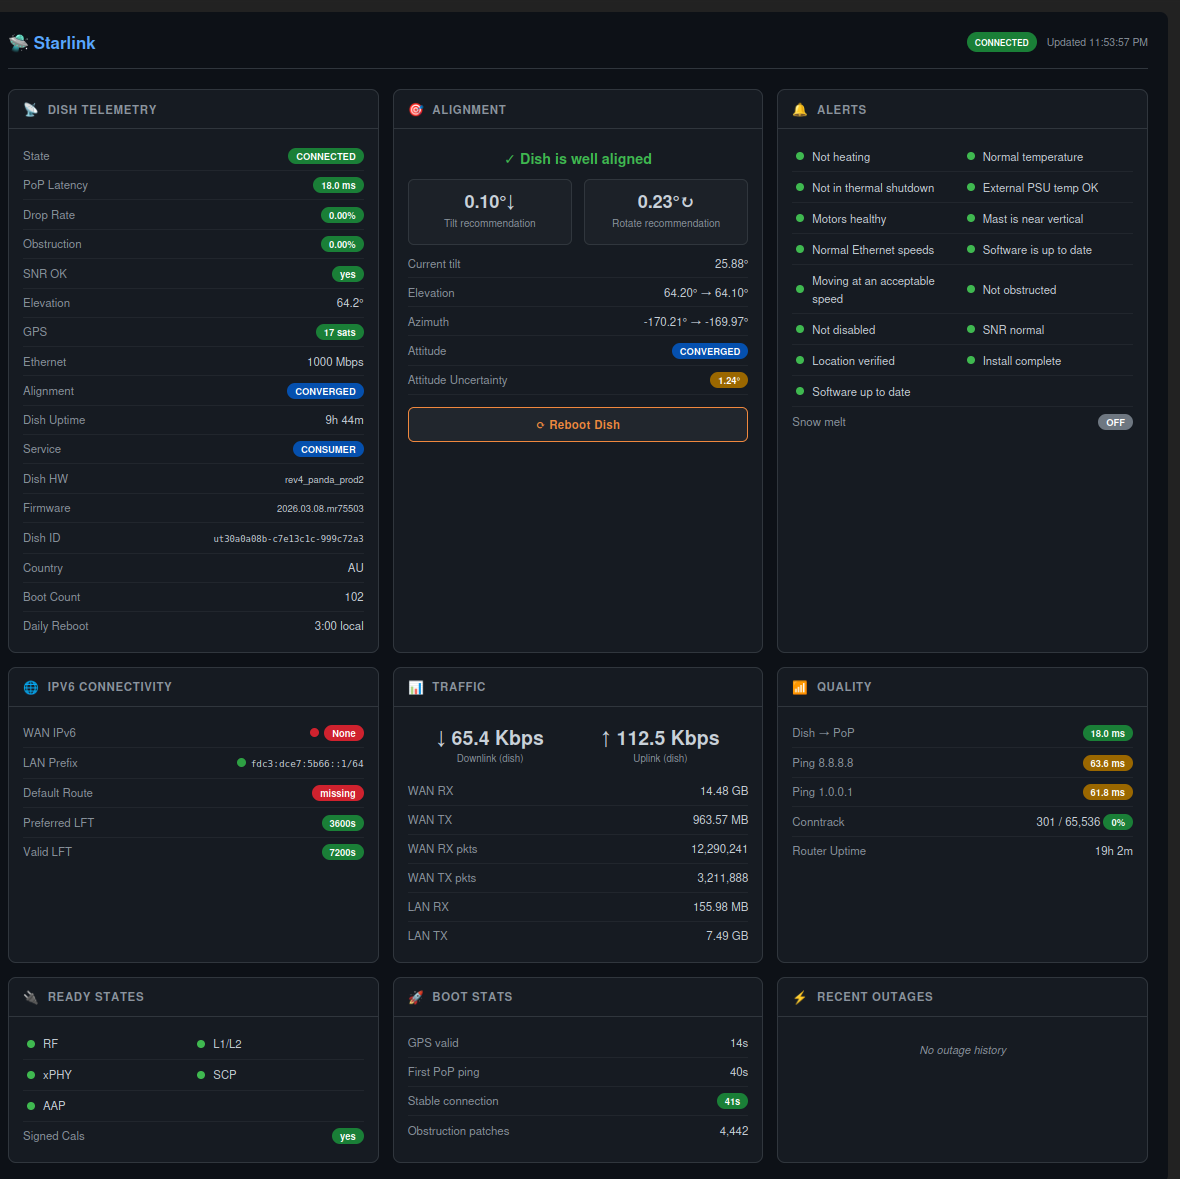
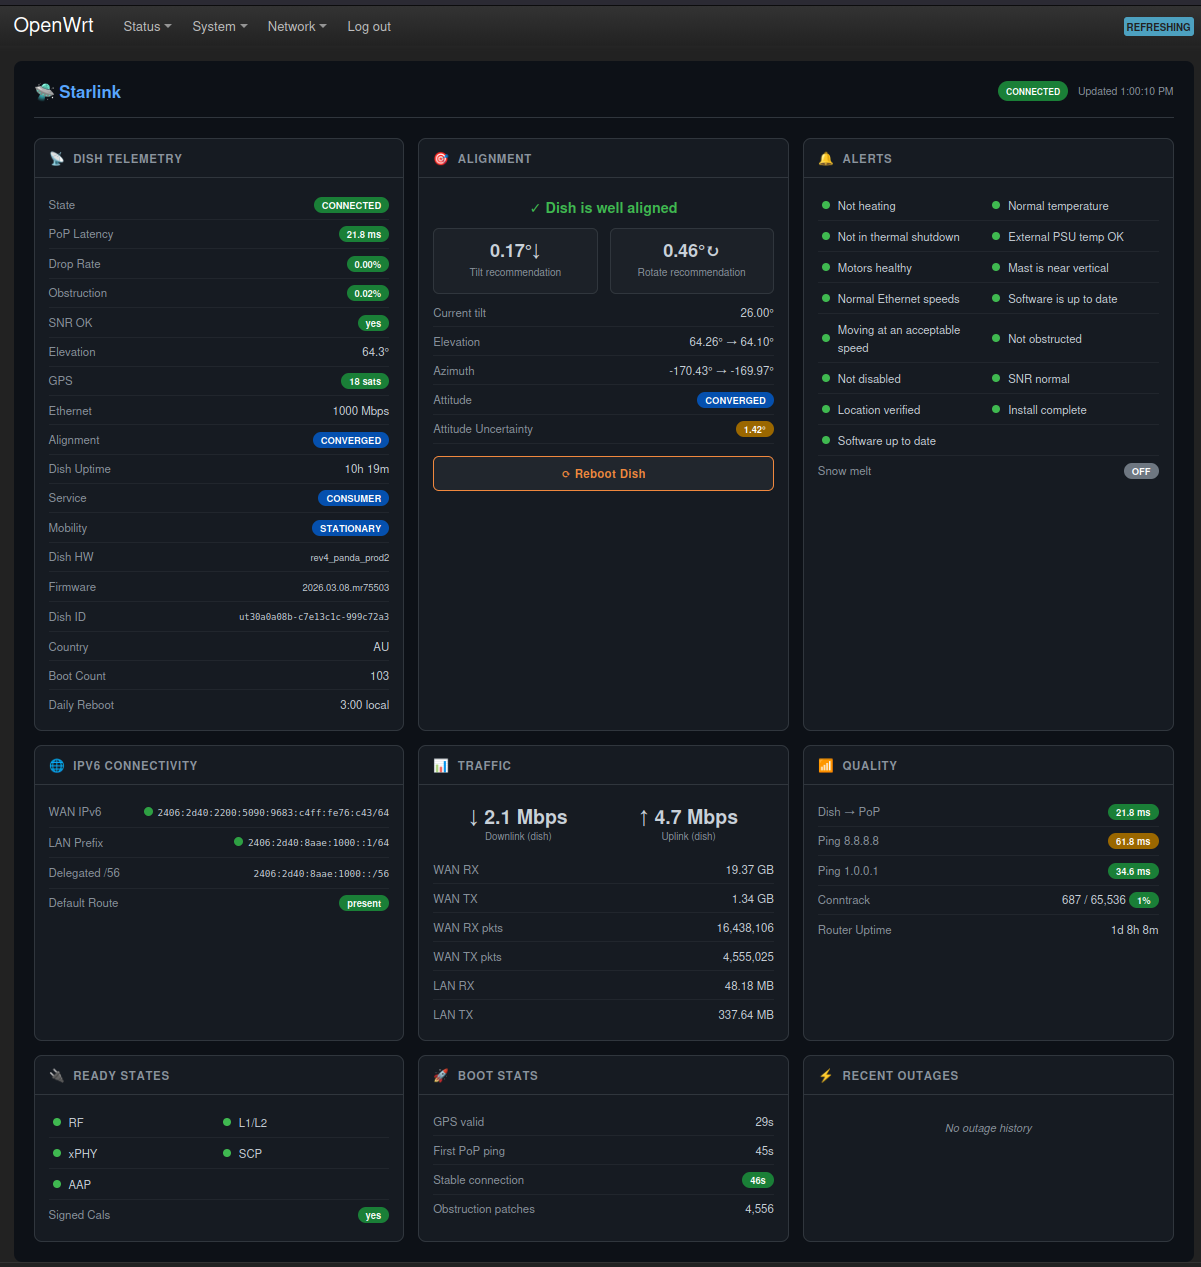
Update README: new screenshot, fix install instructions and feature list

diff --git a/README.md b/README.md
@@ -3,20 +3,21 @@
 LuCI dashboard for Starlink dish telemetry, alignment, alerts, IPv6 connectivity, traffic, and router configuration on OpenWrt 25.x.
 Works with Starlink Gen3 and higher dish.
 
-<img width="1180" height="1179" alt="image" src="https://github.com/user-attachments/assets/562686b3-83c6-411f-85a1-1a1c90b18eae" />
-
+![screenshot](docs/screenshot.png)
 
 ---
 
 ## Features
 
 - **Dish Telemetry** — state, uptime, latency, packet drop, obstruction %, throughput, SNR, GPS satellites, Ethernet speed, hardware/software version
-- **Alignment** — tilt and rotation guidance (↑↓ / ↻↶) with "well aligned" confirmation when within 0.1°
-- **Alerts** — 11 health indicators matching the Starlink app (heating, thermal throttle, shutdown, PSU throttle, motors, mast, slow Ethernet, software update, roaming, obstruction, disabled)
-- **IPv6 Connectivity** — WAN address, LAN address, delegated /56 prefix, default route
-- **Traffic** — WAN and LAN byte/packet counters
-- **Quality** — latency to 8.8.8.8 / 1.0.0.1, conntrack usage, router uptime
-- **Configuration** — TCP congestion control, qdisc, flow offloading, MTU fix, DHCPv6-PD lifetime settings
+- **Alignment** — tilt and rotation guidance (↑↓ / ↻↶) with "well aligned" confirmation when within 5°
+- **Alerts** — 15 health indicators (heating, thermal throttle, shutdown, PSU throttle, motors, mast, slow Ethernet, software update, roaming, obstruction, disabled, SNR low, unexpected location, install pending, reboot required)
+- **IPv6 Connectivity** — WAN address, LAN prefix, delegated /56, default route
+- **Traffic** — instantaneous up/down throughput from dish gRPC, WAN and LAN byte/packet counters
+- **Quality** — dish→PoP latency, pings to 8.8.8.8 / 1.0.0.1, conntrack usage, router uptime
+- **Ready States** — RF, L1/L2, xPHY, SCP, AAP ready flags
+- **Boot Stats** — time to GPS valid, first PoP ping, stable connection
+- **Recent Outages** — last 6 outages with cause and duration
 - **Reboot Dish** button with confirmation dialog
 
 Auto-refreshes every 10 seconds.
@@ -36,51 +37,44 @@ This package is designed to work alongside [starlink-openwrt-ipv6-optimized](htt
 | Requirement | Notes |
 |-------------|-------|
 | OpenWrt 25.x | Uses `apk` package manager; tested on 25.12.0 |
-| Architecture | `aarch64_cortex-a53` (GL-iNet Beryl AX / MT3000) — `PKGARCH=all` so installs on any architecture |
+| Architecture | `aarch64_cortex-a53` for the `starlink-dish` binary; `PKGARCH=all` so the APK installs on any architecture |
 | `luci-base` | LuCI web interface |
 | `rpcd` | RPC daemon (usually pre-installed) |
-| `jsonfilter` | JSON parser for shell scripts |
-| `grpcurl` | Required for dish telemetry — **installed automatically during `apk add`** |
 
 ---
 
 ## Installation
 
-### Prerequisites (run once per router)
+### Step 1 — Install the signing key (one-time)
 
-Install the signing key so packages verify without `--allow-untrusted`:
+**Via LuCI (System → Administration → Repo Public Keys):**
+1. Download [starlink-panel-signing.pub](https://github.com/bigmalloy/starlink-panel/raw/main/keys/starlink-panel-signing.pub)
+2. In LuCI go to **System → Administration**
+3. Click the **Repo Public Keys** tab
+4. Drag the downloaded `.pub` file into the box — it is added automatically
 
+**Or via CLI:**
 ```sh
-scp -O luci-fancontrol-signing.pub root@192.168.1.1:/etc/apk/keys/
+wget -O /etc/apk/keys/starlink-panel-signing.pub \
+  https://raw.githubusercontent.com/bigmalloy/starlink-panel/main/keys/starlink-panel-signing.pub
 ```
 
-Download the public key from the [latest release](../../releases/latest).
+### Step 2 — Install the package
 
-### Install via SSH
+**Via LuCI (System → Software):**
+1. Download `luci-app-starlink-panel-*.apk` from the [latest release](../../releases/latest)
+2. In LuCI go to **System → Software**
+3. Click **Upload Package...**, select the `.apk` file, click **Upload**
 
+**Or via CLI:**
 ```sh
 scp -O luci-app-starlink-panel-*.apk root@192.168.1.1:/tmp/
 ssh root@192.168.1.1 'apk add /tmp/luci-app-starlink-panel-*.apk'
 ```
 
-### Install without key verification
+Navigate to **Services → Starlink** in LuCI after install.
 
-```sh
-ssh root@192.168.1.1 'apk add --allow-untrusted /tmp/luci-app-starlink-panel-*.apk'
-```
-
-The post-install script automatically downloads and installs `grpcurl`, then restarts `rpcd` and `uhttpd`. Navigate to **Network → Starlink** in LuCI.
-
-> If grpcurl download fails (no internet at install time), run `/usr/bin/install-grpcurl` manually once connected.
-
-### Drop caches if reinstalling after removal
-
-```sh
-echo 3 > /proc/sys/vm/drop_caches
-apk add --allow-untrusted /tmp/luci-app-starlink-panel-*.apk
-```
-
-Required if the `starlink-panel/` directory was previously deleted (overlayfs negative dcache).
+> The post-install script downloads `starlink-dish` in the background. Dish telemetry cards populate on the next poll once the binary is present.
 
 ---
 
